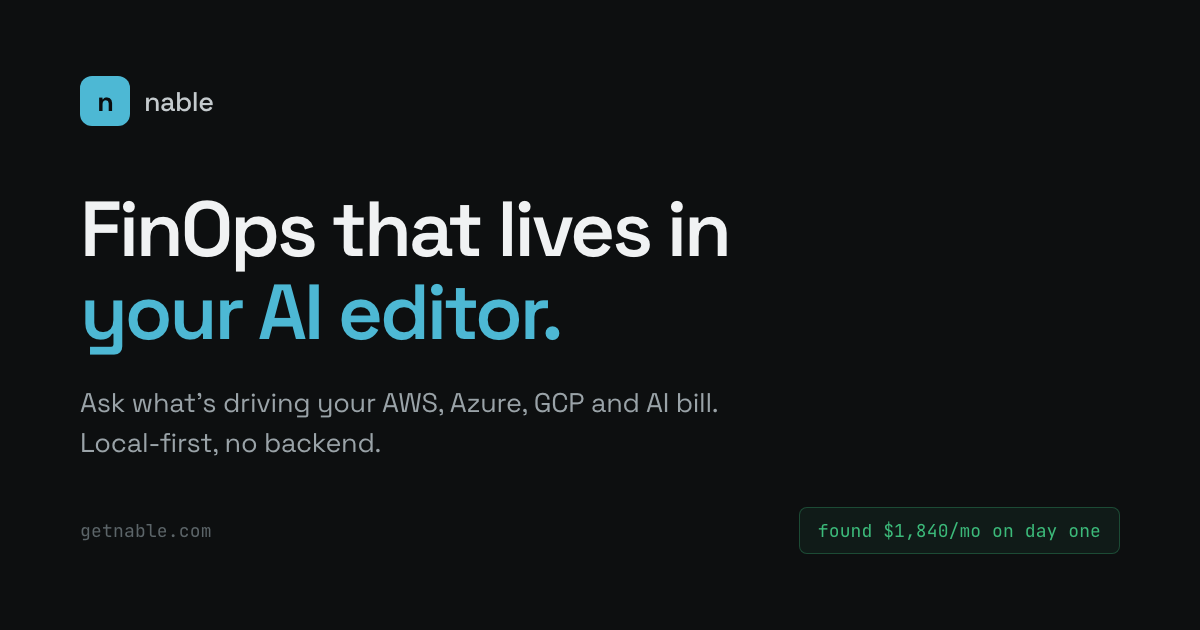
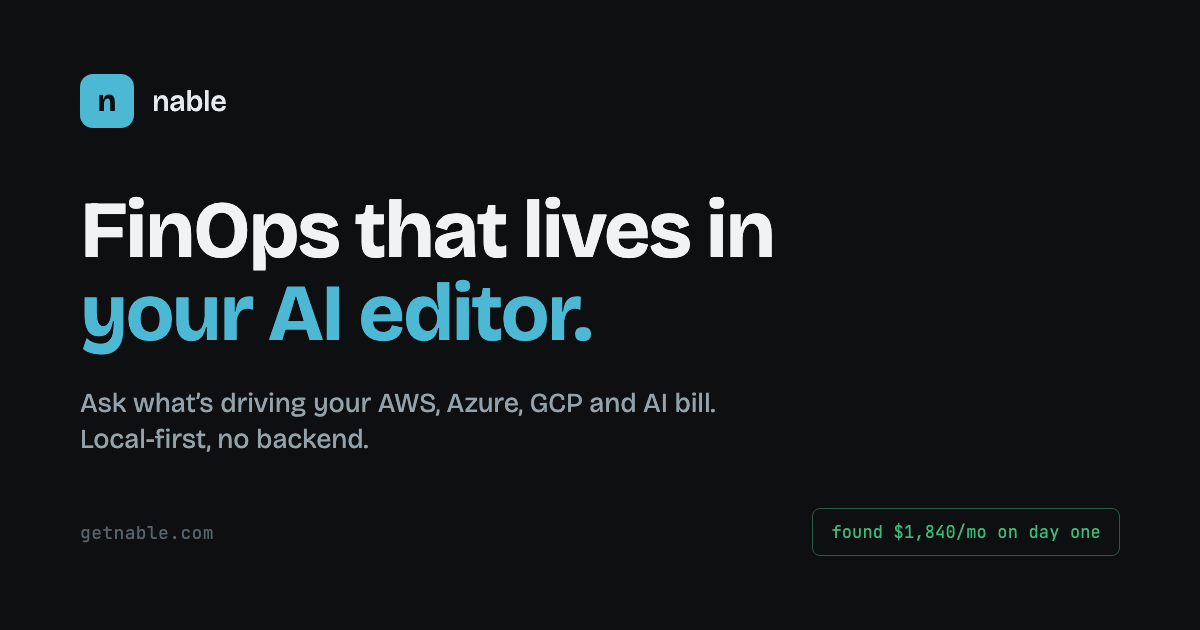
chore(web): re-render og.png in Bricolage Grotesque, add og-card template
Social share card rebuilt to match the sitewide font switch. Same layout
and copy ("FinOps that lives in your AI editor", green "found $1,840/mo
on day one" chip), headline now in Bricolage Grotesque, mono in JetBrains
Mono. Added web/marketing/og-card.html as the committed source template
so future regens are a one-line headless-Chrome render (instructions in
the file header).

diff --git a/web/marketing/og-card.html b/web/marketing/og-card.html
@@ -1,0 +1,41 @@
+<!doctype html>
+<html lang="en">
+<head>
+<meta charset="utf-8" />
+<!-- Source template for web/og.png (1200x630 social share card). Regenerate:
+     "/Applications/Google Chrome.app/Contents/MacOS/Google Chrome" --headless=new \
+       --force-device-scale-factor=1 --window-size=1200,630 --virtual-time-budget=8000 \
+       --screenshot="web/og.png" "file://$PWD/web/marketing/og-card.html" -->
+<link rel="preconnect" href="https://fonts.googleapis.com" />
+<link rel="preconnect" href="https://fonts.gstatic.com" crossorigin />
+<link href="https://fonts.googleapis.com/css2?family=Bricolage+Grotesque:wght@400;500;700&family=JetBrains+Mono:wght@400;500&display=swap" rel="stylesheet" />
+<style>
+  *{margin:0;box-sizing:border-box}
+  html,body{width:1200px;height:630px;overflow:hidden}
+  .card{width:1200px;height:630px;background:#0d0f10;display:flex;flex-direction:column;padding:74px 80px;font-family:'Bricolage Grotesque',system-ui,sans-serif}
+  .brand{display:flex;align-items:center;gap:18px}
+  .logo{width:54px;height:54px;border-radius:13px;background:#4db8d4;display:flex;align-items:center;justify-content:center;color:#0d0f10;font-weight:700;font-size:30px;line-height:1}
+  .wm{font-size:29px;font-weight:500;color:#e6ebed;letter-spacing:-.01em}
+  .mid{margin-top:62px}
+  h1{font-size:80px;font-weight:700;line-height:1.04;letter-spacing:-.03em;color:#f0f2f3}
+  .accent{color:#4db8d4}
+  .sub{font-size:27px;font-weight:400;line-height:1.32;color:#94a3ab;margin-top:30px;letter-spacing:-.005em}
+  .foot{margin-top:auto;display:flex;align-items:center;justify-content:space-between}
+  .url{font-family:'JetBrains Mono',monospace;font-size:18px;color:#56656d;letter-spacing:.02em}
+  .chip{font-family:'JetBrains Mono',monospace;font-size:17px;color:#3cba7a;border:1px solid #295c43;border-radius:8px;padding:12px 18px;letter-spacing:.01em}
+</style>
+</head>
+<body>
+<div class="card">
+  <div class="brand"><div class="logo">n</div><div class="wm">nable</div></div>
+  <div class="mid">
+    <h1>FinOps that lives in<br/><span class="accent">your AI editor.</span></h1>
+    <p class="sub">Ask what’s driving your AWS, Azure, GCP and AI bill.<br/>Local-first, no backend.</p>
+  </div>
+  <div class="foot">
+    <span class="url">getnable.com</span>
+    <span class="chip">found $1,840/mo on day one</span>
+  </div>
+</div>
+</body>
+</html>